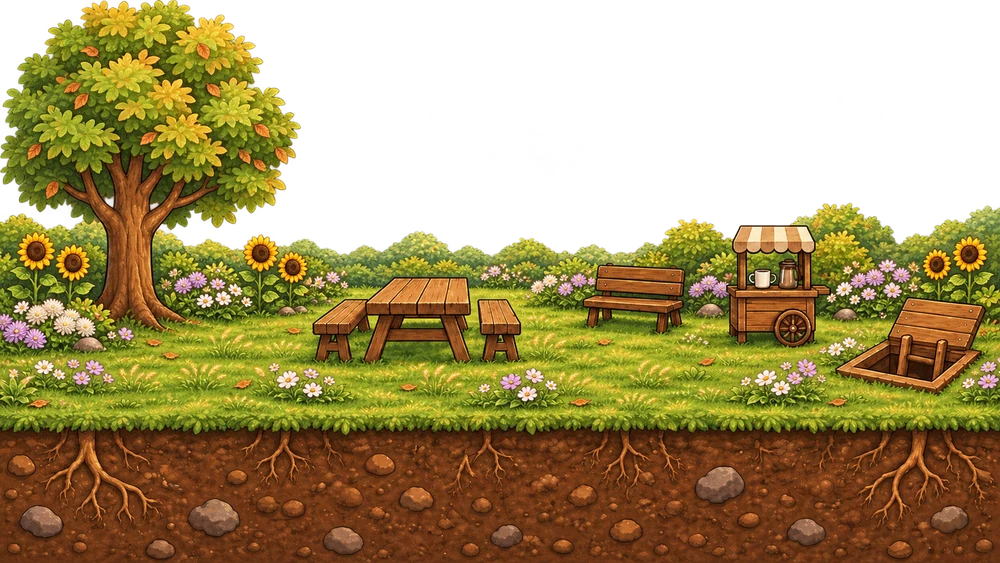
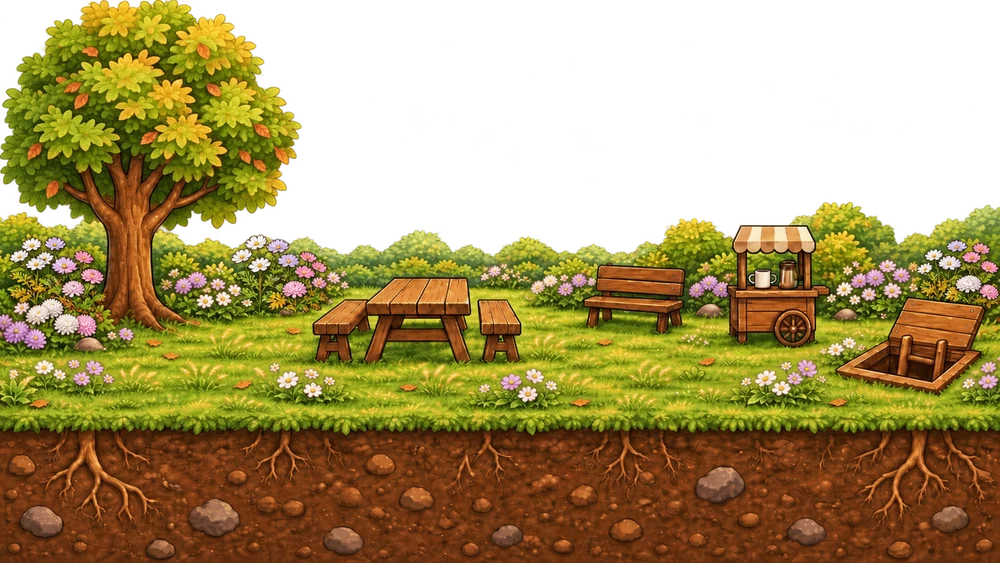
fix: keep Office floors stable and walk new agents through the entrance
Replace repeated sunflower groups in rainy and cool gardens with seasonal flowers.

diff --git a/web/components/agent-visualizer/office/office-view.tsx b/web/components/agent-visualizer/office/office-view.tsx
@@ -5,7 +5,7 @@ import type { TeamSnapshot } from '../../../lib/team-types'
 import { isWorking, type TeamScope, type ConnectionView } from '../../../lib/team-model'
 import type { AnimationMode } from '../../../lib/viewer-preferences'
 import type { OfficeActor, OfficeEvent, OfficePet, OfficeScene, OfficeWorkStation, OfficeLeisureAction } from '../../../lib/office-types'
-import { assignOfficeIdentities, buildOfficeScene, currentOfficeBoard, officeEvents, officeKey } from '../../../lib/office-model'
+import { assignOfficeIdentities, buildOfficeScene, currentOfficeBoard, officeEvents, officeKey, officeTeamOrder } from '../../../lib/office-model'
 import { createOfficeTrip, mergeOfficeEvents, officeAllowsMotion, officeCanResumeTrip, officeDepartureScene, officePresenceEvents, populatedOfficeTeams, officeTripFrame, parseOfficeIdentities, type OfficeTrip } from '../../../lib/office-motion'
 import { deriveOfficeParties, emptyOfficePartyHistory } from '../../../lib/office-parties'
 import { drawOfficeFrame, officeAmbient } from './office-art'
@@ -17,6 +17,7 @@ import { officeLeisureObjects, nearestLeisureActor, createOfficeLeisureTrip, OFF
 import { officeHatchOpen } from '../../../lib/office-navigation'
 import { officeSky, officeSkyIcon } from '../../../lib/office-sky'
 import { officeSeasonalActivity, officeSeasonalObjects } from '../../../lib/office-seasonal'
+import { addOfficeArrivals, advanceOfficeArrivals, officeActorsWithArrivals } from '../../../lib/office-arrivals'
 
 interface OfficeViewProps {
   snapshots: readonly TeamSnapshot[]
@@ -31,6 +32,13 @@ interface OfficeViewProps {
   now: number
 }
 const IDENTITY_STORAGE = 'agent-flow-office-identities-v1'
+const TEAM_ORDER_STORAGE = 'agent-flow-office-team-order-v1'
+const readTeamOrder = (): readonly string[] => {
+  try {
+    const value: unknown = JSON.parse(localStorage.getItem(TEAM_ORDER_STORAGE)??'[]')
+    return Array.isArray(value) ? [...new Set(value.filter((id): id is string => typeof id==='string'&&id.length>0&&id.length<=2048))].slice(0,10_000) : []
+  } catch { return [] }
+}
 const readIdentities = () => { try { return parseOfficeIdentities(localStorage.getItem(IDENTITY_STORAGE)) } catch { return new Map<string, number>() } }
 const sameIdentities = (a: ReadonlyMap<string, number>, b: ReadonlyMap<string, number>) => a.size === b.size && [...a].every(([key, value]) => b.get(key) === value)
 
@@ -53,6 +61,13 @@ type Pending = { event: OfficeEvent; before: OfficeScene }
 
 export function OfficeView({ snapshots, scope, selectedKey, onSelect, onOpenTeam, live, connection, visible, animationMode, now }: OfficeViewProps) {
   const [savedIdentities, setSavedIdentities] = useState(readIdentities)
+  const [savedTeamOrder,setSavedTeamOrder] = useState(readTeamOrder)
+  const teamOrder = useMemo(()=>officeTeamOrder(snapshots.map(s=>s.sessionId),savedTeamOrder),[snapshots,savedTeamOrder])
+  useEffect(()=>{
+    if(teamOrder===savedTeamOrder)return
+    setSavedTeamOrder(teamOrder)
+    try{localStorage.setItem(TEAM_ORDER_STORAGE,JSON.stringify(teamOrder))}catch{/* In-memory order stays stable. */}
+  },[teamOrder,savedTeamOrder])
   const identities = useMemo(() => assignOfficeIdentities(snapshots.flatMap(snapshot => snapshot.agents.map(agent => officeKey(snapshot.sessionId, agent.id))), savedIdentities), [snapshots, savedIdentities])
   useEffect(() => {
     if (sameIdentities(identities, savedIdentities)) return
@@ -74,7 +89,7 @@ export function OfficeView({ snapshots, scope, selectedKey, onSelect, onOpenTeam
   const partyHistory = useMemo(() => deriveOfficeParties(partyLog.current, snapshots, now), [snapshots, now])
   useEffect(() => { partyLog.current = partyHistory }, [partyHistory])
   const parties = partyHistory.parties
-  const scene = useMemo(() => buildOfficeScene(snapshots, scope, showQuiet, identities, sceneWidth, parties), [snapshots, scope, showQuiet, identities, sceneWidth, parties])
+  const scene = useMemo(() => buildOfficeScene(snapshots, scope, showQuiet, identities, sceneWidth, parties, teamOrder), [snapshots, scope, showQuiet, identities, sceneWidth, parties, teamOrder])
   const [heldLayout, setHeldLayout] = useState<OfficeScene | null>(null)
   const held = useRef<OfficeScene | null>(null)
   const holdLayout = (value: OfficeScene | null) => { held.current = value; setHeldLayout(value) }
@@ -87,6 +102,8 @@ export function OfficeView({ snapshots, scope, selectedKey, onSelect, onOpenTeam
   const objectCue = useRef<{actorKey:string;kind:OfficeLeisureAction;until:number}|null>(null)
   const leisureTrips = useRef(new Map<string,{trip:OfficeTrip;kind:OfficeLeisureAction}>())
   const leisureVisual = useRef(new Map<string,Moving>())
+  const arrivalTrips = useRef(new Map<string,OfficeTrip>())
+  const [,setArrivalTick] = useState(0)
   const [restMoving,setRestMoving]=useState<Moving[]>([])
   const hatchClosed = useRef<HTMLDivElement>(null)
   const hatchButton = useRef<HTMLButtonElement>(null)
@@ -140,10 +157,16 @@ export function OfficeView({ snapshots, scope, selectedKey, onSelect, onOpenTeam
       baseline.current = { snapshots, scene, enabled, scope, showQuiet }
       return
     }
-    if (!enabled || !previous?.enabled || (previous.snapshots === snapshots && (previous.scope !== scope || previous.showQuiet !== showQuiet))) {
+    if (!enabled || !previous?.enabled || previous.scope !== scope || previous.showQuiet !== showQuiet) {
       queue.current = []; active.current = null; setMoving(null); holdLayout(null)
+      if(arrivalTrips.current.size){arrivalTrips.current.clear();setArrivalTick(n=>n+1)}
     } else if (previous.scene !== scene) {
-      const events = [...officeEvents(previous.snapshots, snapshots, Date.now()), ...officePresenceEvents(previous.scene, scene, populatedOfficeTeams(previous.snapshots), Date.now()), ...officeWorkEvents(previous.scene,scene,Date.now())]
+      const priorIds=new Set(previous.snapshots.map(s=>s.sessionId))
+      const newTeams=new Set(previous.snapshots.length?snapshots.filter(s=>!priorIds.has(s.sessionId)).map(s=>s.sessionId):[])
+      const observed = [...officeEvents(previous.snapshots, snapshots, Date.now()), ...officePresenceEvents(previous.scene, scene, populatedOfficeTeams(previous.snapshots), Date.now(),newTeams), ...officeWorkEvents(previous.scene,scene,Date.now())]
+      arrivalTrips.current=addOfficeArrivals(arrivalTrips.current,observed,previous.scene,scene,motionClock.current)
+      const events=observed.filter(event=>event.kind!=='arrived'&&!arrivalTrips.current.has(event.actorKey))
+      setArrivalTick(n=>n+1)
       if (events.some(event => event.kind === 'left')) {
         if (!held.current) holdLayout(previous.scene)
         active.current = null; setMoving(null)
@@ -171,12 +194,12 @@ export function OfficeView({ snapshots, scope, selectedKey, onSelect, onOpenTeam
     if (element.width !== w || element.height !== h) { element.width = w; element.height = h }
     const overrides=new Map([...leisureVisual.current].map(([key,value])=>[key,value.actor]))
     if(movement)overrides.set(movement.actor.key,movement.actor)
-    const actors=input.scene.actors.map(actor=>overrides.get(actor.key)??actor)
+    const actors=officeActorsWithArrivals(input.scene,arrivalTrips.current,motionClock.current).map(actor=>overrides.get(actor.key)??actor)
     if(movement&&!actors.some(actor=>actor.key===movement.actor.key))actors.push(movement.actor)
     context.setTransform(ratio,0,0,ratio,0,0)
     const skyElement=skyCanvas.current, skyContext=skyElement?.getContext('2d')
     const surfaceHeight=input.scene.floors.find(f=>f.kind==='lounge')?.height??0
-    const opening=officeHatchOpen(input.scene,movement?.actor??null,hatchManual.current)
+    const opening=officeHatchOpen(input.scene,movement?.actor??null,hatchManual.current)||actors.some(actor=>arrivalTrips.current.has(actor.key)&&officeHatchOpen(input.scene,actor,false))
     if(hatchClosed.current)hatchClosed.current.style.opacity=opening?'0':'1'
     if(hatchButton.current){hatchButton.current.setAttribute('aria-expanded',String(opening));hatchButton.current.setAttribute('aria-label',opening?'Close garden hatch':'Open garden hatch')}
     if(skyElement&&skyContext){
@@ -188,7 +211,7 @@ export function OfficeView({ snapshots, scope, selectedKey, onSelect, onOpenTeam
     const offsets = drawOfficeFrame(context, { ...input.scene, actors }, { time: elapsed.current, date: new Date(), now: Date.now(), live: input.live,
       motion: input.enabled, pets: input.pets, petEvent: input.petEvent, selectedKey: input.selectedKey,
       objectCue:objectCue.current&&objectCue.current.until>elapsed.current?objectCue.current:null,
-      leisureKeys:new Set(leisureTrips.current.keys()),
+      leisureKeys:new Set([...leisureTrips.current.keys(),...arrivalTrips.current.keys()]),
       tripKey: input.enabled ? active.current?.actorKey ?? null : null, greetKey: input.enabled ? greeting : null })
     if (!cssScale.current) cssScale.current = (element.clientWidth || input.scene.width) / input.scene.width
     for (const [key, button] of agentRefs.current) {
@@ -230,12 +253,19 @@ export function OfficeView({ snapshots, scope, selectedKey, onSelect, onOpenTeam
       if (!lastTime) lastTime = time
       const delta = Math.min(200, time - lastTime) * (animationMode === 'low' ? .5 : 1)
       lastTime = time; elapsed.current += delta / 1000; motionClock.current += delta
+      // Freeze on every RAF, including skipped paint frames, while old floors are held.
+      if(held.current)for(const [key,trip] of arrivalTrips.current)arrivalTrips.current.set(key,{...trip,startedAt:trip.startedAt+delta,endsAt:trip.endsAt+delta})
       if (time - lastPaint < interval) return
       lastPaint = time
       const input = current.current
+      if(!held.current){
+        const arrivals=advanceOfficeArrivals(arrivalTrips.current,input.scene,motionClock.current)
+        arrivalTrips.current=arrivals.trips
+        for(const trip of arrivals.completed)greetArrival(trip,input.scene)
+      }
       if(motionClock.current>=nextSeasonalAt.current){
         nextSeasonalAt.current=motionClock.current+45_000
-        const available={...input.scene,actors:input.scene.actors.filter(a=>a.key!==active.current?.actorKey&&!leisureTrips.current.has(a.key)&&a.agent.status!=='failed')}
+        const available={...input.scene,actors:input.scene.actors.filter(a=>a.key!==active.current?.actorKey&&!leisureTrips.current.has(a.key)&&!arrivalTrips.current.has(a.key)&&a.agent.status!=='failed')}
         const rooms=input.scene.floors.filter(f=>f.kind==='break')
         for(let i=0;i<rooms.length;i++){
           const floor=rooms[(seasonalCursor.current+i)%rooms.length]
@@ -244,7 +274,7 @@ export function OfficeView({ snapshots, scope, selectedKey, onSelect, onOpenTeam
           if(person){const trip=createOfficeLeisureTrip(input.scene,person.key,object,motionClock.current);if(trip){leisureTrips.current.set(person.key,{trip,kind:object.kind});seasonalCursor.current++;break}}
         }
       }
-      queue.current = queue.current.filter(pending => Date.now() - pending.event.at <= 15_000)
+      queue.current = queue.current.filter(pending => Date.now() - pending.event.at <= 15_000&&!arrivalTrips.current.has(pending.event.actorKey))
       if (held.current && !active.current && !queue.current.some(pending => pending.event.kind === 'left')) {
         holdLayout(null); setMoving(null); return
       }
@@ -264,7 +294,7 @@ export function OfficeView({ snapshots, scope, selectedKey, onSelect, onOpenTeam
         }
       }
       let movement: Moving | null = null
-      if(!active.current&&!held.current&&motionClock.current>=nextWorkAt.current){
+      if(!active.current&&!held.current&&!arrivalTrips.current.size&&motionClock.current>=nextWorkAt.current){
         nextWorkAt.current=motionClock.current+5000
         const work=officeWorkPulse(input.scene,workCursor.current++,Date.now())
         if(work)active.current=createOfficeTrip(work,input.scene,input.scene,motionClock.current)
@@ -289,7 +319,7 @@ export function OfficeView({ snapshots, scope, selectedKey, onSelect, onOpenTeam
         leisureVisual.current.set(key,{actor:{...actor,...frame.point,stand:true,pose:{...frame.pose,sit:!frame.pose.walk&&(entry.kind==='book'||entry.kind==='snack'),objectAction:frame.pose.walk?undefined:entry.kind}},caption:entry.trip.caption,elevatorY:null})
       }
       paint(movement)
-      if (time - lastLabels >= 80) { setMoving(movement);setRestMoving([...leisureVisual.current.values()]);lastLabels = time }
+      if (time - lastLabels >= 80) { setMoving(movement);setRestMoving([...leisureVisual.current.values()]);setArrivalTick(n=>n+1);lastLabels = time }
     }
     handle = requestAnimationFrame(tick)
     return () => cancelAnimationFrame(handle)
@@ -306,7 +336,16 @@ export function OfficeView({ snapshots, scope, selectedKey, onSelect, onOpenTeam
     return room
   }, [visualScene])
   const restByKey=new Map(restMoving.map(m=>[m.actor.key,m.actor]))
-  const displayed=visualScene.actors.map(actor=>moving?.actor.key===actor.key?moving.actor:restByKey.get(actor.key)??actor)
+  // Project pending evidence during render too, before the effect commits it, so a new name tag
+  // never gets one browser frame at its canonical desk while its body waits outside.
+  let displayedArrivals=arrivalTrips.current
+  const priorDisplay=baseline.current
+  if(enabled&&priorDisplay?.enabled&&priorDisplay.scope===scope&&priorDisplay.showQuiet===showQuiet&&priorDisplay.scene!==scene){
+    const priorIds=new Set(priorDisplay.snapshots.map(s=>s.sessionId))
+    const newTeams=new Set(priorDisplay.snapshots.length?snapshots.filter(s=>!priorIds.has(s.sessionId)).map(s=>s.sessionId):[])
+    displayedArrivals=addOfficeArrivals(displayedArrivals,officePresenceEvents(priorDisplay.scene,scene,populatedOfficeTeams(priorDisplay.snapshots),Date.now(),newTeams),priorDisplay.scene,scene,motionClock.current)
+  }
+  const displayed=officeActorsWithArrivals(visualScene,displayedArrivals,motionClock.current).map(actor=>moving?.actor.key===actor.key?moving.actor:restByKey.get(actor.key)??actor)
   if(moving&&!displayed.some(a=>a.key===moving.actor.key))displayed.push(moving.actor)
 
   const ambient = officeAmbient(new Date(now))
@@ -379,7 +418,7 @@ export function OfficeView({ snapshots, scope, selectedKey, onSelect, onOpenTeam
               if(!visualScene.actors.some(a=>a.floorId===floor.id&&a.zone==='lounge'&&!a.hidden))return []
               return [...officeLeisureObjects(floor,visualScene.width).map(object=>({...object,label:OFFICE_OBJECT_NAMES[object.kind]})),...officeSeasonalObjects(floor,visualScene.width,new Date(now))].map((object,index)=><button key={`${floor.id}-${object.kind}-${index}`} type="button" className="of-object-hit" aria-label={`${object.label}, ${floor.title}`}
                 style={{left:`${(object.x-20)/visualScene.width*100}%`,top:`${(object.y-24)/visualScene.height*100}%`,width:`${40/visualScene.width*100}%`,height:`${34/visualScene.height*100}%`}}
-                onClick={()=>{const playable=active.current?{...current.current.scene,actors:current.current.scene.actors.map(a=>a.key===active.current!.actorKey?{...a,hidden:true}:a)}:current.current.scene;const person=nearestLeisureActor(playable,floor,object);if(person){
+                onClick={()=>{const playable={...current.current.scene,actors:current.current.scene.actors.filter(a=>a.key!==active.current?.actorKey&&!arrivalTrips.current.has(a.key))};const person=nearestLeisureActor(playable,floor,object);if(person){
                   if(current.current.enabled){const trip=createOfficeLeisureTrip(current.current.scene,person.key,object,motionClock.current,leisureVisual.current.get(person.key)?.actor);if(trip)leisureTrips.current.set(person.key,{trip,kind:object.kind})}
                   else{objectCue.current={actorKey:person.key,kind:object.kind,until:elapsed.current+7};paint(lastPainted.current)}
                 }}}><span>{object.label}</span></button>)

diff --git a/web/test/office-arrivals.test.ts b/web/test/office-arrivals.test.ts
@@ -1,0 +1,48 @@
+import test from 'node:test'
+import assert from 'node:assert/strict'
+import { addOfficeArrivals, advanceOfficeArrivals, officeActorsWithArrivals } from '../lib/office-arrivals'
+import { officePresenceEvents } from '../lib/office-motion'
+import { assignOfficeIdentities, buildOfficeScene, officeKey } from '../lib/office-model'
+import type { TeamSnapshot } from '../lib/team-types'
+const team=(sessionId:string,count:number):TeamSnapshot=>({sessionId,title:sessionId,active:true,updatedAt:1,tasks:[],agents:Array.from({length:count},(_,i)=>({id:`a${i}`,parentId:i?'a0':null,role:i?'worker':'lead',name:`Agent ${i}`,runtime:null,model:null,status:'running',task:null,activities:[],requestKind:null,context:null,toolCallCount:0,hasThread:true,startedAt:1,updatedAt:1,completedAt:null}))})
+const scene=(teams:TeamSnapshot[])=>buildOfficeScene(teams,'active',false,assignOfficeIdentities(teams.flatMap(t=>t.agents.map(a=>officeKey(t.sessionId,a.id)))))
+
+test('new agents wait outside and enter in staggered parallel trips without desk flashes or queue expiry',()=>{
+ const before=scene([team('a',1)]),next=scene([team('a',5)])
+ const events=officePresenceEvents(before,next,new Set(['a']),1000)
+ const trips=addOfficeArrivals(new Map(),events,before,next,0)
+ assert.equal(trips.size,4)
+ const starts=[...trips.values()].map(t=>t.startedAt)
+ assert.deepEqual(starts,[0,900,1800,2700])
+ const visible=officeActorsWithArrivals(next,trips,0)
+ assert.equal(visible.length,2)
+ const first=visible.find(a=>a.key===events[0].actorKey)!
+ assert.notEqual(first.y,next.actors.find(a=>a.key===first.key)!.y)
+ assert.equal(first.x,[...trips.values()][0].shaftX)
+ const later=advanceOfficeArrivals(trips,next,16000)
+ assert.ok(later.completed.length>0||later.trips.size>0)
+ const finished=advanceOfficeArrivals(later.trips,next,100000)
+ assert.equal(finished.trips.size,0)
+ assert.equal(officeActorsWithArrivals(next,finished.trips,100000).length,5)
+})
+
+test('new live teams enter but baseline, scope history and terminal agents do not replay',()=>{
+ const before=scene([team('a',1)]),next=scene([team('a',1),team('b',2)])
+ assert.equal(officePresenceEvents(null,next,new Set(['a']),1000,new Set(['b'])).length,0)
+ assert.equal(officePresenceEvents(before,next,new Set(['a']),1000).length,0)
+ assert.equal(officePresenceEvents(before,next,new Set(['a']),1000,new Set(['b'])).filter(e=>e.kind==='arrived').length,2)
+ const history=structuredClone(next);history.actors.filter(a=>a.sessionId==='b').forEach(a=>a.agent.status='done')
+ assert.equal(officePresenceEvents(before,history,new Set(['a']),1000,new Set(['b'])).filter(e=>e.kind==='arrived').length,0)
+})
+
+test('an entrance retargets continuously after floor changes and removes vanished actors',()=>{
+ const before=scene([team('a',1)]),next=scene([team('a',2)])
+ const trips=addOfficeArrivals(new Map(),officePresenceEvents(before,next,new Set(['a']),1000),before,next,0)
+ const moving=officeActorsWithArrivals(next,trips,1000).find(a=>trips.has(a.key))!
+ const shifted=structuredClone(next);shifted.actors.forEach(a=>a.y+=70);shifted.floors.filter(f=>f.kind==='team').forEach(f=>f.y+=70)
+ const advanced=advanceOfficeArrivals(trips,shifted,1000)
+ const after=officeActorsWithArrivals(shifted,advanced.trips,1000).find(a=>advanced.trips.has(a.key))!
+ assert.equal(after.x,moving.x);assert.equal(after.y,moving.y)
+ const gone=advanceOfficeArrivals(advanced.trips,before,1100)
+ assert.equal(gone.trips.size,0)
+})

diff --git a/web/lib/office-arrivals.ts b/web/lib/office-arrivals.ts
@@ -1,0 +1,57 @@
+import type { OfficeActor, OfficeEvent, OfficePoint, OfficeScene } from './office-types'
+import { createOfficeTrip, officeTripFrame, type OfficeTrip, type OfficeTripSegment } from './office-motion'
+import { officeLanding, officeNavigation } from './office-navigation'
+
+/** Arrivals have their own durable lane: a long climb must not expire in the work-event queue. */
+export function addOfficeArrivals(existing: ReadonlyMap<string,OfficeTrip>, events:readonly OfficeEvent[], before:OfficeScene, next:OfficeScene, now:number) {
+  const trips=new Map(existing)
+  let start=Math.max(now,...[...trips.values()].map(t=>t.startedAt+900))
+  for(const event of events.filter(e=>e.kind==='arrived').sort((a,b)=>a.actorKey.localeCompare(b.actorKey))){
+    if(trips.has(event.actorKey))continue
+    const trip=createOfficeTrip(event,{...before,actors:before.actors.filter(a=>a.key!==event.actorKey)},next,start)
+    if(trip){trips.set(trip.actorKey,trip);start+=900}
+  }
+  return trips
+}
+
+function retarget(trip:OfficeTrip,actor:OfficeActor,scene:OfficeScene,now:number):OfficeTrip {
+  if(now<trip.startedAt){
+    return createOfficeTrip(trip.event,{...scene,actors:scene.actors.filter(a=>a.key!==actor.key)},scene,trip.startedAt)??trip
+  }
+  const nav=officeNavigation(scene),landing=officeLanding(scene,actor.floorId)
+  if(!landing)return trip
+  let cursor=officeTripFrame(trip,now).point
+  const segments:OfficeTripSegment[]=[]
+  const leg=(to:OfficePoint,kind:OfficeTripSegment['kind'],duration:number)=>{segments.push({from:{...cursor},to:{...to},kind,duration});cursor={...to}}
+  const walk=(to:OfficePoint)=>{const d=Math.hypot(to.x-cursor.x,to.y-cursor.y);if(d>.01)leg(to,'walk',Math.max(150,d/(75*nav.scale)*1000))}
+  if(Math.abs(cursor.y-landing.y)>.01){
+    walk({x:nav.shaftX,y:cursor.y})
+    leg({x:nav.shaftX,y:landing.y},'ride',Math.abs(cursor.y-landing.y)/(80*nav.scale)*1000)
+    leg(cursor,'hold',280);walk(landing)
+  }
+  walk({x:actor.x,y:landing.y});walk(actor);leg(actor,'hold',300)
+  return {...trip,actor,segments,startedAt:now,endsAt:now+segments.reduce((n,s)=>n+s.duration,0),shaftX:nav.shaftX,rungPitch:nav.rungPitch}
+}
+
+export function advanceOfficeArrivals(existing:ReadonlyMap<string,OfficeTrip>,scene:OfficeScene,now:number) {
+  const trips=new Map<string,OfficeTrip>(),completed:OfficeTrip[]=[]
+  for(const [key,previous] of existing){
+    const actor=scene.actors.find(a=>a.key===key&&!a.hidden)
+    if(!actor)continue
+    const trip=actor.floorId!==previous.actor.floorId||actor.x!==previous.actor.x||actor.y!==previous.actor.y?retarget(previous,actor,scene,now):previous
+    if(now>=trip.endsAt)completed.push(trip)
+    else trips.set(key,trip)
+  }
+  return {trips,completed}
+}
+
+/** Used by both canvas and DOM: waiting newcomers are absent, entering people use their path position. */
+export function officeActorsWithArrivals(scene:OfficeScene,trips:ReadonlyMap<string,OfficeTrip>,now:number):OfficeActor[] {
+  return scene.actors.flatMap(actor=>{
+    const trip=trips.get(actor.key)
+    if(!trip)return [actor]
+    if(now<trip.startedAt)return []
+    const frame=officeTripFrame(trip,now)
+    return [{...actor,...frame.point,stand:true,pose:{...frame.pose,lead:actor.agent.role==='lead'}}]
+  })
+}

diff --git a/web/test/office-model.test.ts b/web/test/office-model.test.ts
@@ -1,6 +1,6 @@
 import test from 'node:test'
 import assert from 'node:assert/strict'
-import { assignOfficeIdentities, buildOfficeScene, officeEvents, officeKey, officeAppearance, officeDisplayName, officeBreakRoom, officeWorkRoom, OFFICE_SLOTS, BREAK_ROOMS } from '../lib/office-model'
+import { assignOfficeIdentities, buildOfficeScene, officeEvents, officeKey, officeAppearance, officeDisplayName, officeBreakRoom, officeWorkRoom, OFFICE_SLOTS, BREAK_ROOMS, officeTeamOrder } from '../lib/office-model'
 import type { TeamAgentRow, TeamSnapshot, TeamTaskRow } from '../lib/team-types'
 import { officeStations } from '../lib/office-stations'
 
@@ -13,6 +13,20 @@ const task = (id: string, childId: string, status: TeamTaskRow['status'], delive
   completedAt: null, updatedAt,
 })
 const team = (sessionId: string, agents: TeamAgentRow[], tasks: TeamTaskRow[] = []): TeamSnapshot => ({ sessionId, title: sessionId, active: true, updatedAt: 1, agents, tasks })
+
+test('team floors keep their order when attention, source ordering and new arrivals change',()=>{
+ const a=team('a',[agent('lead')]),b=team('b',[agent('lead')])
+ const before=buildOfficeScene([a,b],'active',false,new Map())
+ b.agents[0].status='waiting_input'
+ const next=buildOfficeScene([b,a],'active',false,new Map())
+ assert.deepEqual(next.floors.map(f=>f.id),before.floors.map(f=>f.id))
+ const order=officeTeamOrder(['b','c'],['b','a'])
+ assert.deepEqual(order,['b','a','c'])
+ const c=team('c',[agent('lead')])
+ const stable=buildOfficeScene([a,b,c],'active',false,new Map(),450,new Set(),order)
+ assert.deepEqual(stable.floors.filter(f=>f.kind==='team').map(f=>f.sessionId),['b','a','c'])
+ assert.deepEqual(officeTeamOrder(['a','b'],order),order)
+})
 
 test('agent identities vary in silhouette, clothing and accessories, not just shirt colour',()=>{
  const people=Array.from({length:28},(_,i)=>officeAppearance(i))
@@ -129,7 +143,7 @@ test('events avoid initial replay, detect strongest task transitions, and ignore
 })
 
 
-test('room choice, priority, failed lead seating, quiet teams going home and lounge parties', () => {
+test('room choice, stable team ordering, quiet teams going home and lounge parties', () => {
   const waiting=team('z-wait',[agent('lead','waiting_input')])
   const small=team('a-work',[agent('lead'),agent('w','running','lead')])
   const noLead=team('no-lead',[{...agent('solo'),role:'worker'}])
@@ -141,7 +155,8 @@ test('room choice, priority, failed lead seating, quiet teams going home and lou
   const scene=buildOfficeScene(all,'active',false,ids)
   assert.equal(scene.floors[0].kind,'lounge')
   const rooms=scene.floors.filter(f=>f.kind==='team')
-  assert.equal(rooms[0].sessionId,'z-wait')
+  assert.equal(rooms[0].sessionId,'a-work')
+  assert.ok(rooms.find(f=>f.sessionId==='z-wait')?.waiting)
   assert.equal(rooms.find(f=>f.sessionId==='a-work')?.room,officeWorkRoom('a-work',2))
   assert.equal(rooms.find(f=>f.sessionId==='no-lead')?.room,officeWorkRoom('no-lead',1))
   assert.equal(rooms.find(f=>f.sessionId==='big')?.room,'room-stations-large')

diff --git a/web/lib/office-model.ts b/web/lib/office-model.ts
@@ -97,9 +97,16 @@ export function officeDisplayName(name: string): string {
  * - quiet teams go home, except teams in `parties` (seen finishing by the viewer), which
  *   celebrate on the surface lawn first.
  */
-export function buildOfficeScene(snapshots: readonly TeamSnapshot[], scope: TeamScope, showQuiet: boolean, identities: ReadonlyMap<string, number>, width = 450, parties: ReadonlySet<string> = new Set()): OfficeScene {
-  const priority = (s: TeamSnapshot) => s.agents.some(a => a.status.startsWith('waiting_')) ? 0 : quiet(s) ? 2 : 1
-  const sorted = [...new Map(snapshots.map(s => [s.sessionId, s])).values()].sort((a,b) => priority(a)-priority(b) || a.sessionId.localeCompare(b.sessionId))
+export function officeTeamOrder(sessionIds: readonly string[], previous: readonly string[] = []): readonly string[] {
+  const order = [...new Set(previous)]
+  const known = new Set(order)
+  order.push(...[...new Set(sessionIds)].filter(id => !known.has(id)).sort())
+  return order.length === previous.length && order.every((id,i) => id === previous[i]) ? previous : order
+}
+
+export function buildOfficeScene(snapshots: readonly TeamSnapshot[], scope: TeamScope, showQuiet: boolean, identities: ReadonlyMap<string, number>, width = 450, parties: ReadonlySet<string> = new Set(), teamOrder: readonly string[] = []): OfficeScene {
+  const order = new Map(officeTeamOrder(snapshots.map(s=>s.sessionId),teamOrder).map((id,i)=>[id,i]))
+  const sorted = [...new Map(snapshots.map(s => [s.sessionId, s])).values()].sort((a,b) => order.get(a.sessionId)!-order.get(b.sessionId)!)
   const quietTeams = sorted.filter(s => quiet(s) && !(parties.has(s.sessionId) && s.agents.some(a => a.status === 'done'))), floors: OfficeFloor[] = [], actors: OfficeActor[] = [], resting: OfficeActor[] = [], guests: OfficeActor[] = []
   const partyTitles: string[] = []
   const clean = (v: string) => v.replace(/(?:[A-Za-z]:[\\/]|\/root\/|\/Users\/|\/home\/)[^ ·]+/g, '').trim()

diff --git a/web/lib/office-motion.ts b/web/lib/office-motion.ts
@@ -111,13 +111,13 @@ export function mergeOfficeEvents(pending: readonly OfficeEvent[], incoming: rea
 }
 
 /** Display presence is separate from task delivery; no entering/leaving animation claims receipt. */
-export function officePresenceEvents(before: OfficeScene | null, next: OfficeScene, knownTeams: ReadonlySet<string>, now: number): OfficeEvent[] {
+export function officePresenceEvents(before: OfficeScene | null, next: OfficeScene, knownTeams: ReadonlySet<string>, now: number, newTeams:ReadonlySet<string> = new Set()): OfficeEvent[] {
   if (!before) return []
   const old = new Map(before.actors.map(actor => [actor.key, actor])), current = new Map(next.actors.map(actor => [actor.key, actor]))
   const events: OfficeEvent[] = []
   for (const actor of before.actors) if (!actor.hidden && !current.has(actor.key)) events.push({ id: JSON.stringify(['left', actor.key, now]), kind: 'left', actorKey: actor.key, parentKey: actor.parentKey, at: now })
   for (const actor of next.actors) if (!actor.hidden && old.has(actor.key) && !old.get(actor.key)!.hidden && old.get(actor.key)!.floorId !== actor.floorId) events.push({id:JSON.stringify(['finished',actor.key,now]),kind:'finished',actorKey:actor.key,parentKey:actor.parentKey,at:now})
-  for (const actor of next.actors) if (!actor.hidden && !old.has(actor.key) && knownTeams.has(actor.sessionId) && (actor.agent.role === 'lead' || ['running','thinking','background','waiting_approval','waiting_input'].includes(actor.agent.status))) {
+  for (const actor of next.actors) if (!actor.hidden && !old.has(actor.key) && (knownTeams.has(actor.sessionId)||newTeams.has(actor.sessionId)) && ['running','thinking','background','waiting_approval','waiting_input'].includes(actor.agent.status)) {
     events.push({ id: JSON.stringify(['arrived', actor.key, now]), kind: 'arrived', actorKey: actor.key, parentKey: actor.parentKey, at: now })
   }
   return events

diff --git a/docs/superpowers/plans/2026-11-13-office-continuity.md b/docs/superpowers/plans/2026-11-13-office-continuity.md
@@ -1,0 +1,10 @@
+# Office continuity and seasonal flowers
+
+User reported flowers repeating across seasons, rooms swapping floors and newly created agents teleporting.
+
+- Reproduced floor reorder: `waiting_*` promoted a room ahead of other teams. Remove status priority from physical layout. Persist first-seen team order; append newcomers; keep dormant team slots in the ordering so returning teams keep relative identity. Finished rooms may still close as requested.
+- Replace fixed sunflower groups in rainy/cool foregrounds and their closed-hatch overlays with season-specific plants. Preserve geometry and sky alpha. Hot-season sunflowers remain as one distinct seasonal motif.
+- Newly observed actors enter through the hatch and walk/climb to their destination; keep initial history static. Hide their canonical destination bodies while entering, support staggered parallel arrivals and retain real task ownership.
+- Verify regressions, full tests and TypeScript, inspect final assets/movement, build/package, commit and reopen.
+
+Verification: floor-order regression failed before the fix, then 17/17 model tests passed. Arrival regressions verified red first, then 28/28 targeted tests and TypeScript passed. Integrated web suite: 245/245 passed; TypeScript and desktop build passed. All four corrected flower assets retain transparent sky at 1000 × 563. Prepared package: artifacts.local/desktop-office-continuity.

diff --git a/web/components/agent-visualizer/office/assets/SEASONS.md b/web/components/agent-visualizer/office/assets/SEASONS.md
@@ -12,6 +12,8 @@ Season additions:
 - Rainy: deep emerald canopy, glossy broad leaves, lush mossy grass, ferns, mushrooms, purple/blue flowers, damp soil and small puddles. No baked rain streaks.
 - Cool: sage/olive and amber-green canopy with scattered copper leaves, golden grass tips, white/lavender cosmos and chrysanthemums. Thai cool season; no snow or bare winter branches.
 
+Flower correction prompt: Remove every sunflower plant, including the large yellow/brown flower groups along both edges and mid-left. Replace in the same planting spots with rainy-season fern/glossy foliage and blue-purple hydrangea clusters, or cool-season white/pale-lavender/pink cosmos and chrysanthemums. Preserve all other objects, hatch open/closed state, composition and transparent sky. Sunflowers remain in the hot-season variant only.
+
 Closed-hatch prompt: Change only the right-hand open hatch: lay the wooden lid flat over its opening with a small brass pull handle; remove the raised lid and reveal matching seasonal grass behind it. Preserve all other objects, colors, composition and sky transparency.
 
 Seasonal animals, moving flowers, weather, room decorations and calendar events are drawn by code rather than baked into these images.
